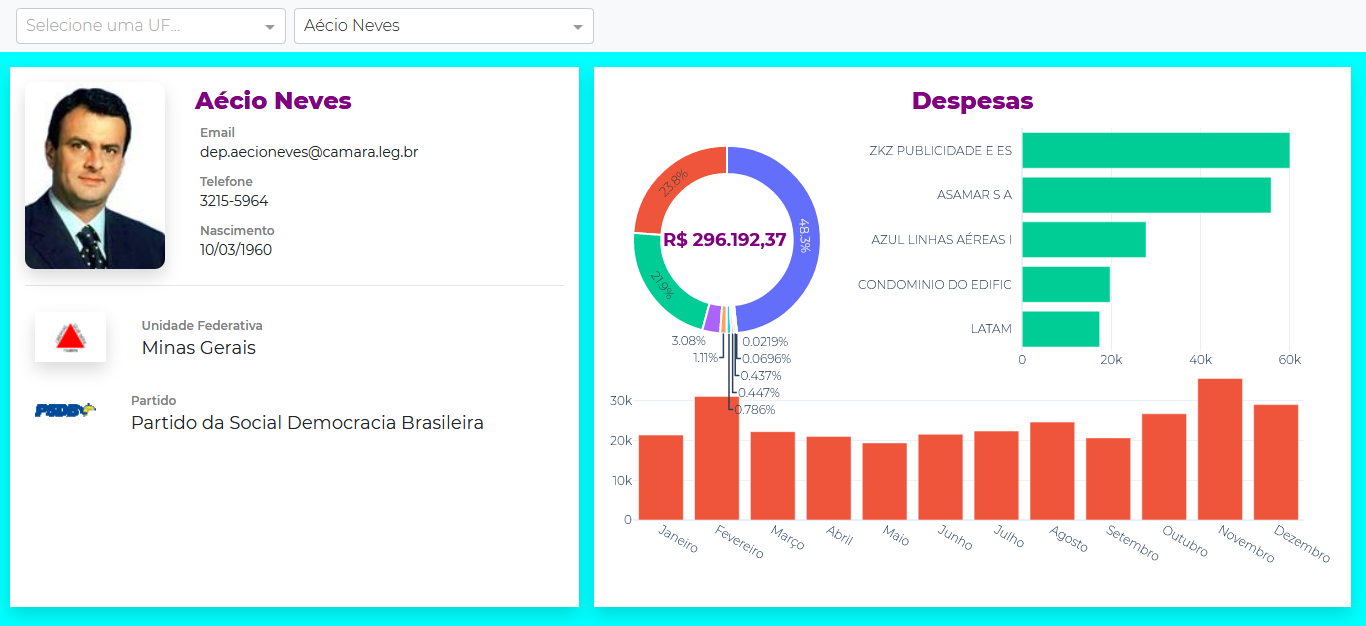
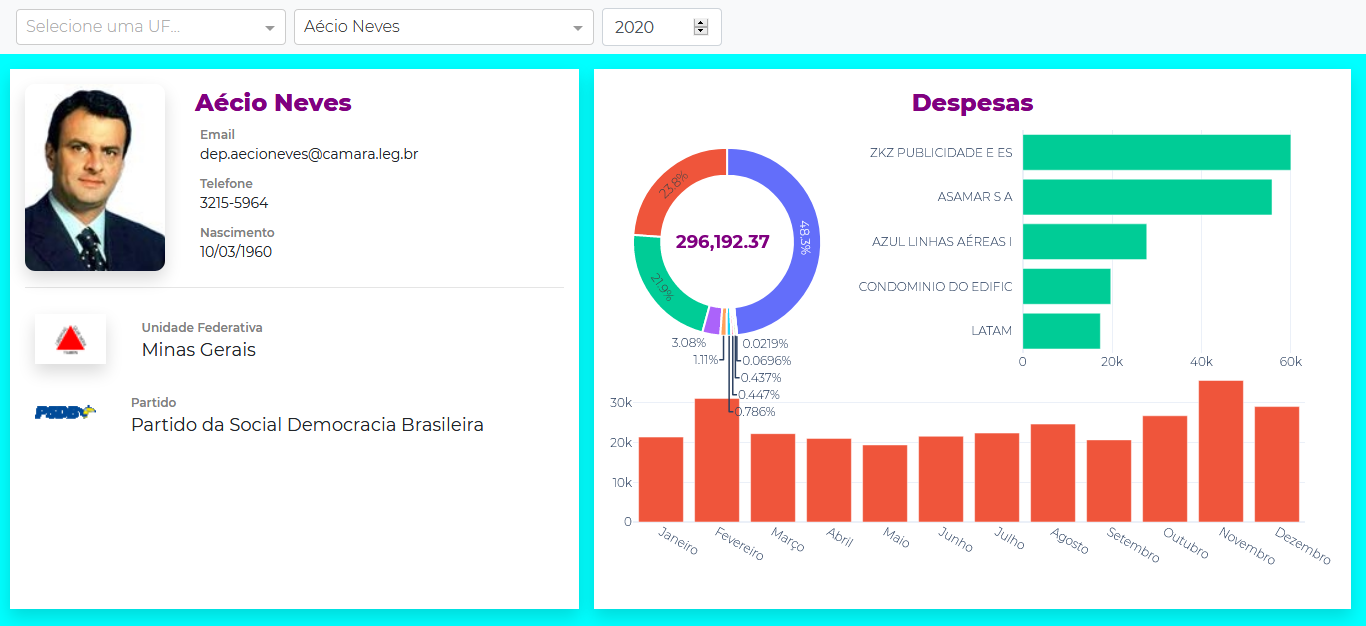
✨ Adicionar seletor de ano

diff --git a/app.py b/app.py
@@ -23,6 +23,7 @@ app = dash.Dash(
 
 app.layout = layout.layout
 app.title = 'Painel de Deputados'
+server = app.server
 
 
 
@@ -63,13 +64,14 @@ def update_dropdown_options(uf):
     Output('plots', 'figure'),
     Output('dashboard', 'style'),
     Output('none_selected', 'style')],
-    [Input('dep_dropdown', 'value')],
+    [Input('dep_dropdown', 'value'),
+    Input('ano_input', 'value')],
     prevent_initial_call = True)
-def update_deputado(cod):
+def update_deputado(cod, ano):
 
     dep = camara.Deputado(cod)
     partido = PARTIDOS.index[PARTIDOS.sigla==dep.partido][0]
-    charts = utils.Charts(deputado=dep, ano=2020)
+    charts = utils.Charts(deputado=dep, ano=ano)
 
     nascimento = datetime.strftime(
         datetime.strptime(dep.nascimento, '%Y-%m-%d'),

diff --git a/layout.py b/layout.py
@@ -138,6 +138,16 @@ navbar = dbc.Navbar([
         style = {'width': 300},
         clearable = False,
         className = 'ml-2'
+    ),
+    dbc.Input(
+        id = 'ano_input',
+        type = 'number',
+        value = 2021,
+        max = 2022,
+        min = 2019,
+        style = {'width': 120},
+        size = 'sm',
+        className = 'ml-3'
     )
 ])
 

diff --git a/README.md b/README.md
@@ -4,11 +4,14 @@ Este é o repositório para os arquivos do projeto **Painel de Deputados**, que 
 
 - Os dados são capturados através do pacote **[Dados Abertos Brasil](https://www.gustavofurtado.com/dab.html)**;
 - Os dados são inseridos em uma interface de inputs e callbacks via **[Dash by Plotly](https://github.com/plotly/dash)**;
-- Por fim, é feito o deploy do app no **[Heroku](https://painel-deputados.herokuapp.com/)**
+- Por fim, é feito o deploy do app no **[Heroku](https://despesas-deputados.herokuapp.com)**
 
 ---
 
 <div align="center">
+	<p style="margin-bottom: 20px">
+		<img src="https://raw.githubusercontent.com/GusFurtado/PainelDeputados/main/assets/exemplo_lira.png">
+	</p>
 	<p style="margin-bottom: 20px">
 		<img src="https://raw.githubusercontent.com/GusFurtado/PainelDeputados/main/assets/exemplo_aecio.png">
 	</p>
